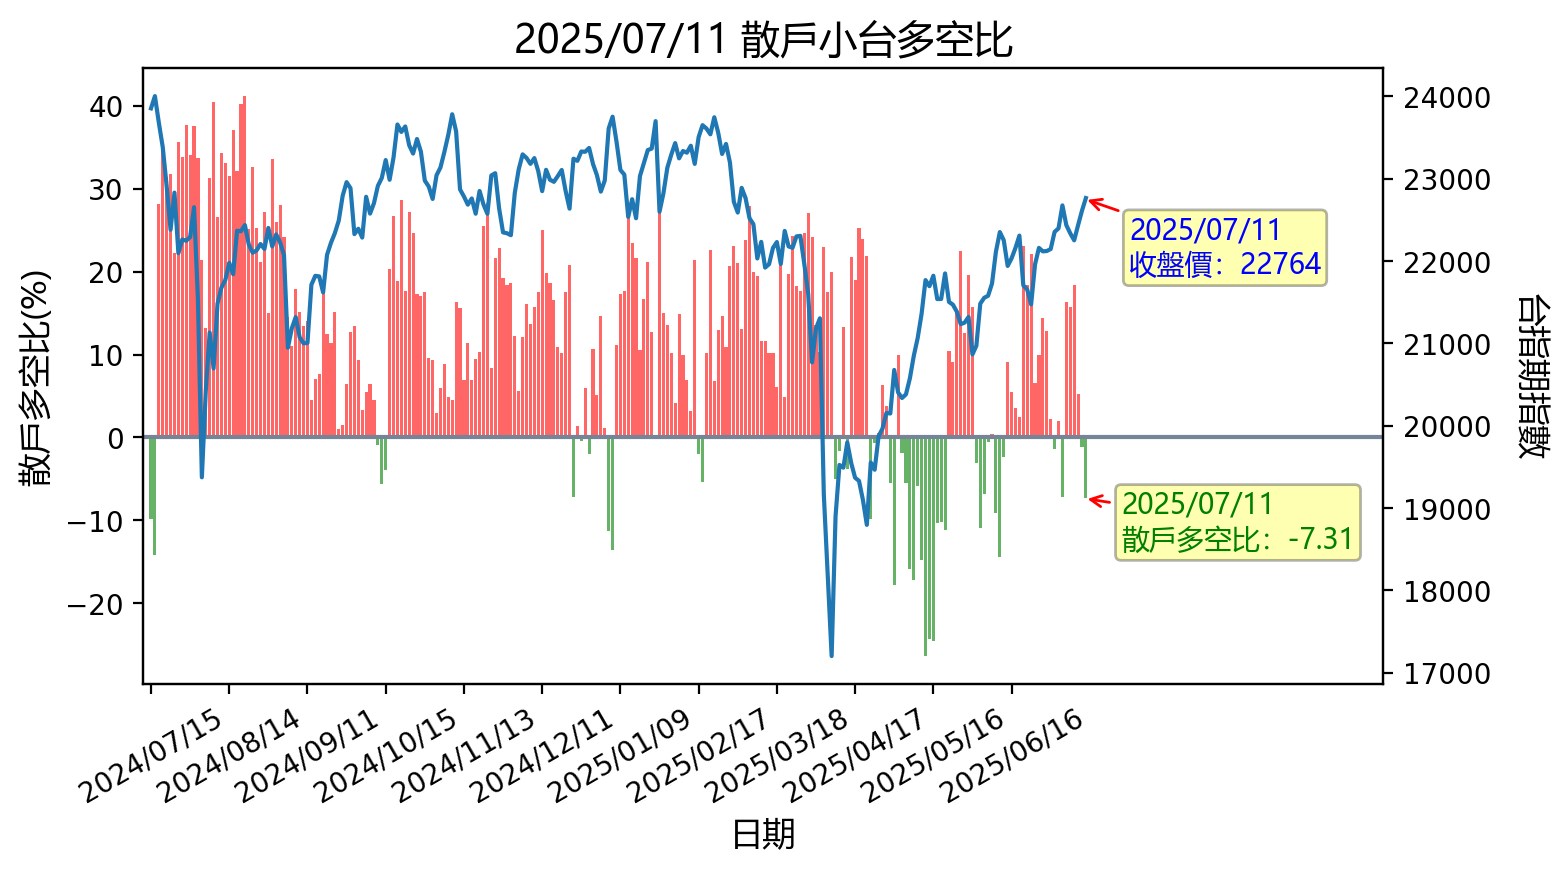
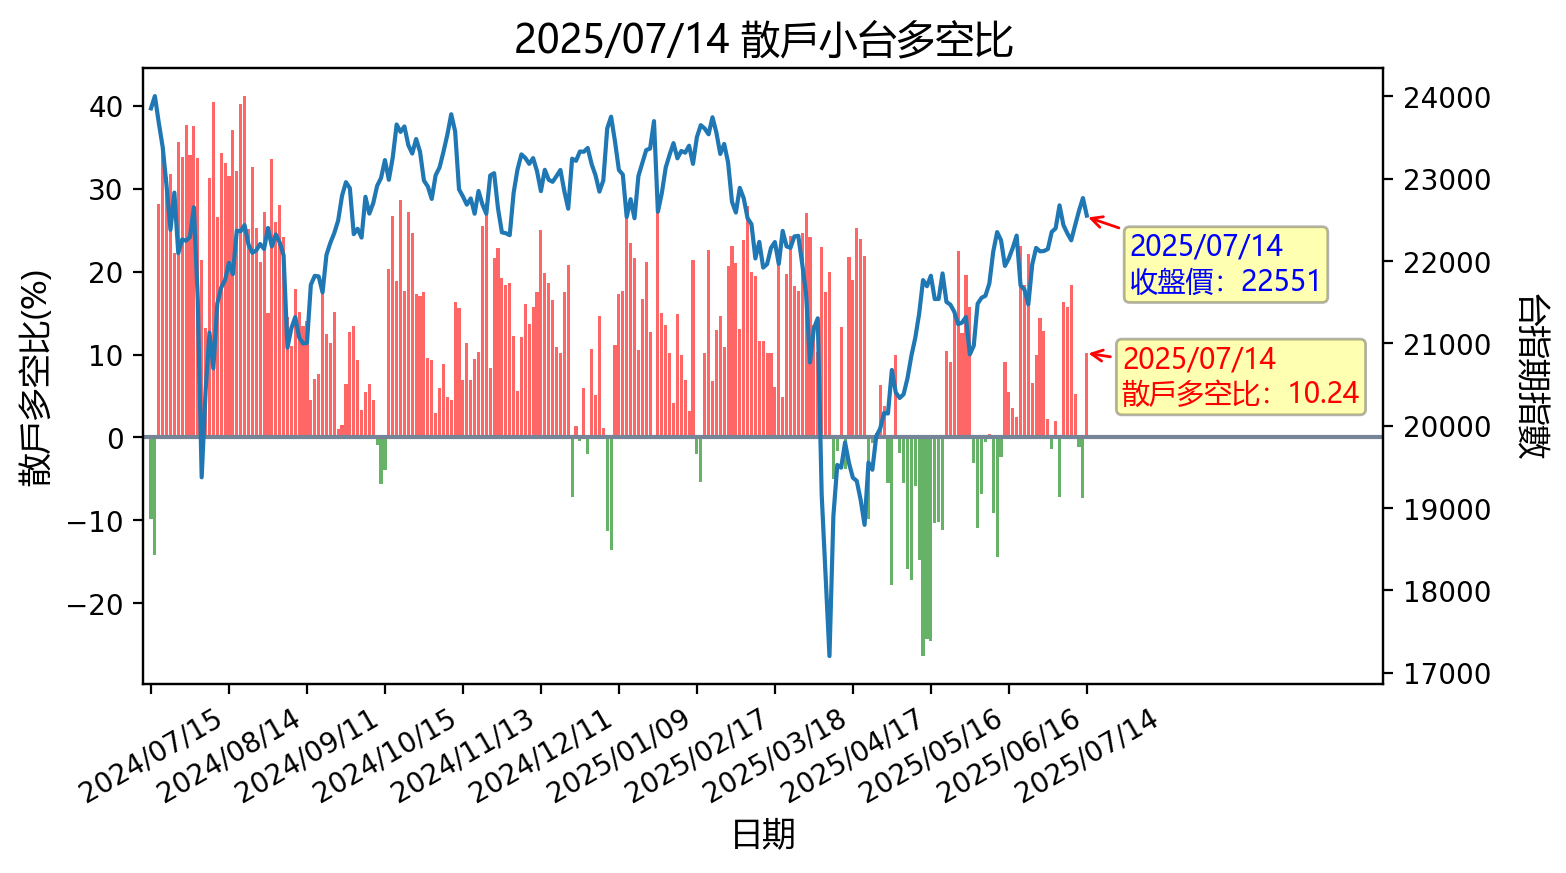
更新時間: Mon Jul 14 16:47:17 CST 2025

diff --git a/README.md b/README.md
@@ -1,12 +1,12 @@
-## 20250713 台指期「預估換倉成本」
+## 20250714 台指期「預估換倉成本」
 ![](images/txfcost.png)
 
-## 20250713 台指期「散戶小台多空比」
+## 20250714 台指期「散戶小台多空比」
 ![](images/bbiri.png)
 
-## 20250713 台指選擇權「Put/Call Ratios」
+## 20250714 台指選擇權「Put/Call Ratios」
 ![](images/pcratio.png)
 
-## 20250713 台指期「大額交易人」
+## 20250714 台指期「大額交易人」
 ![](images/blocktrade.png)
 
